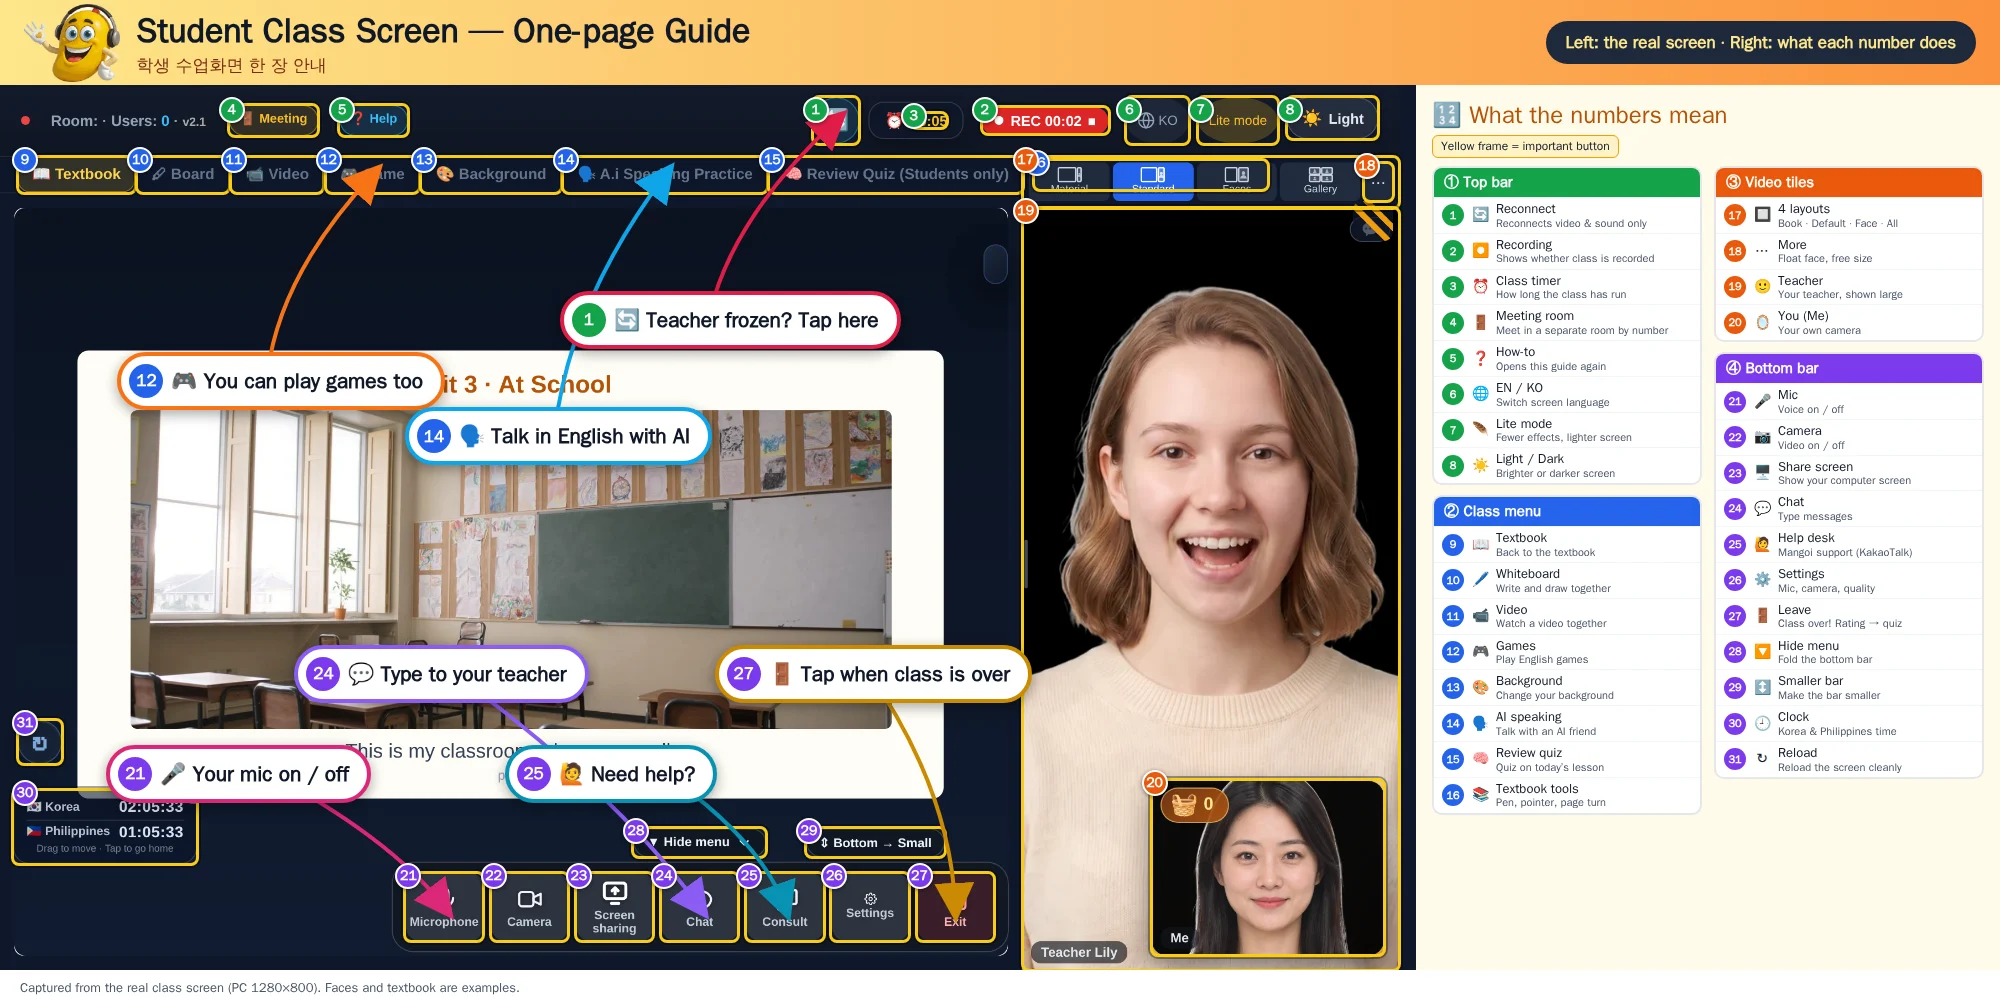
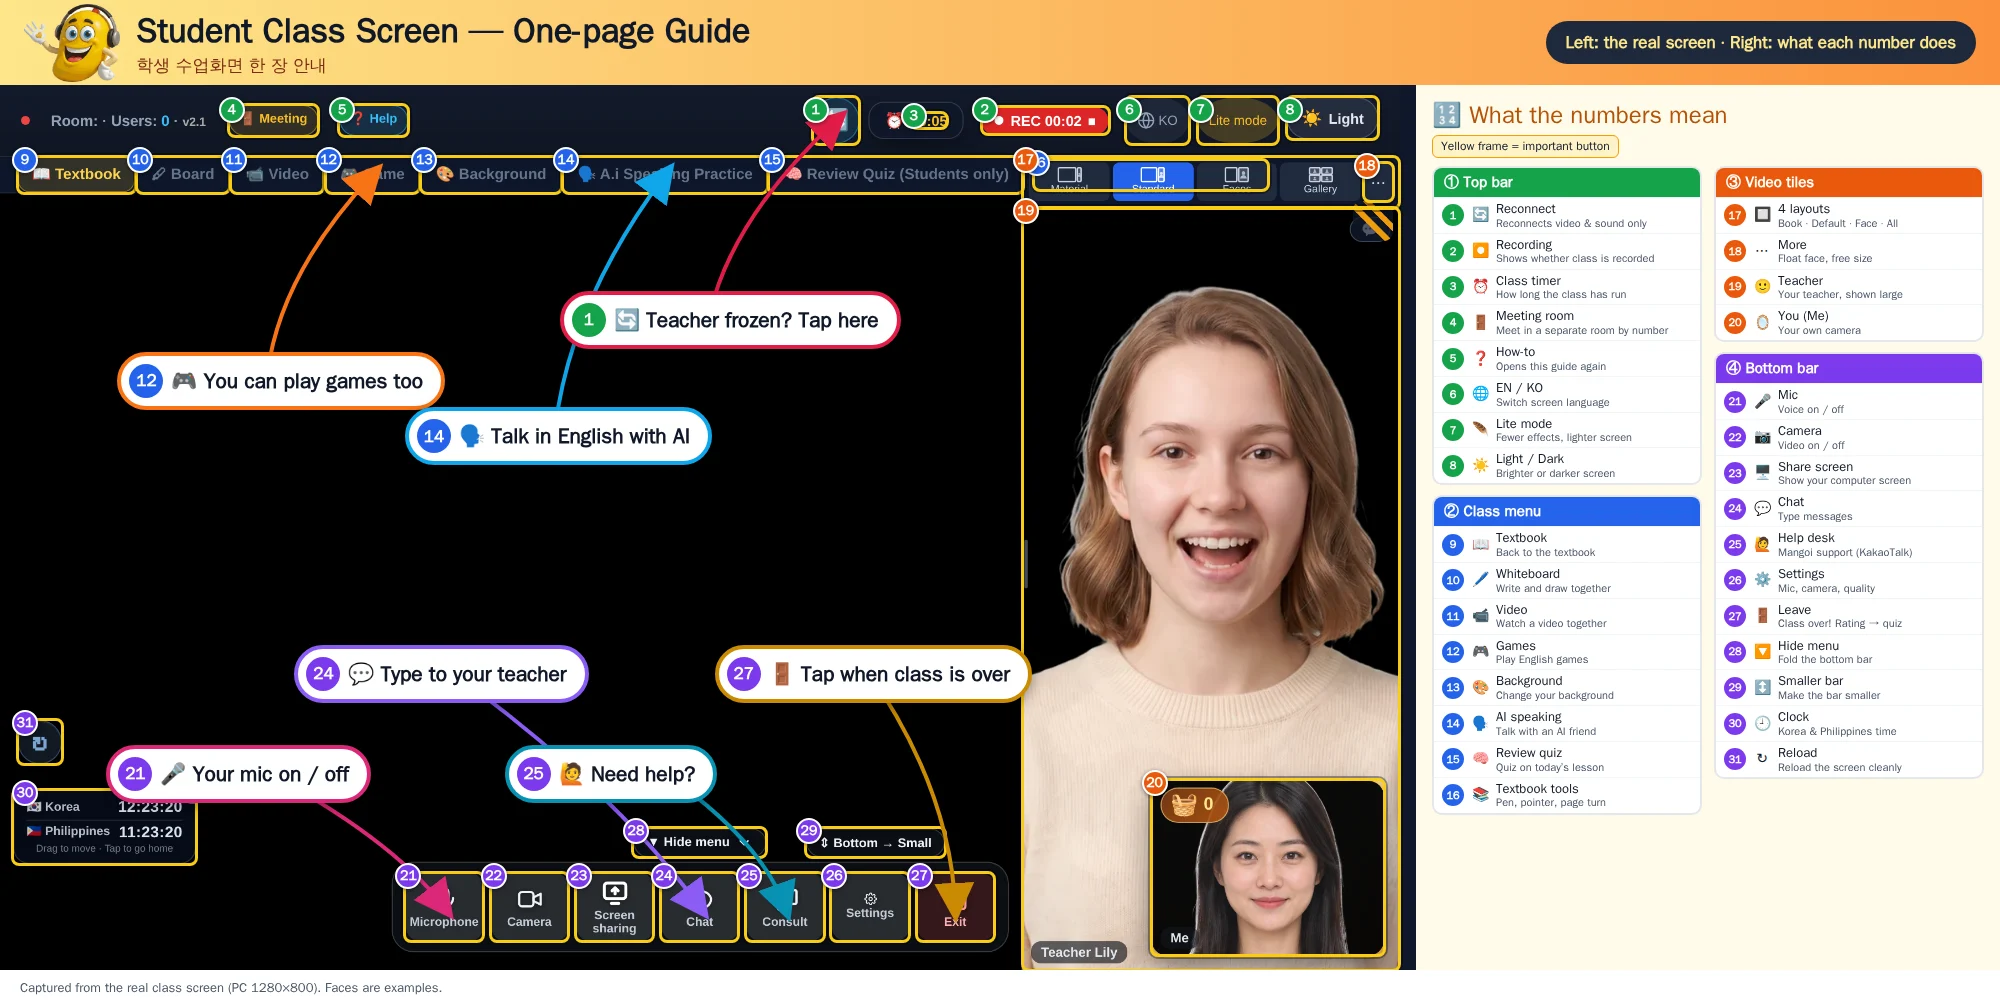
fix(수업화면 안내): 화면 전체로 키우고 교재 칸은 검정, 역할대로 교사=영어·학생=한국어
- 안내 창이 화면 전체를 덮고 그림은 비율 유지로 최대 크기
- 그림 속 예시 교재를 빼고 교재 칸을 검정으로 다시 생성(IMG_V=2)
- 관리자 세션으로 선생님용을 띄우던 판정 제거: 학생으로 입장하면 학생용 한국어
- 역할이 늦게 바로잡히면 사람이 탭을 누르기 전까지 따라감

Claude-Session: https://claude.ai/code/session_017WD4UPTtT4FoK1E77iva8j

Changed region(s): [[0.0, 0.1849, 0.527, 0.9861]]

diff --git a/cloudflare-deploy/public/js/idx-vc-guide.js b/cloudflare-deploy/public/js/idx-vc-guide.js
@@ -54,21 +54,20 @@
    * 만드는 곳: docs/수업화면_사용법그림_소스/build.mjs (화면이 바뀌면 그것을 다시 돌린다).
    * 기본 언어: 선생님 = 영어(필리핀·중국 선생님), 학생 = 한국어. 창 안에서 바꿀 수 있다.
    * ⛔ 그림 주소를 바꾸지 말 것 — 같은 이름으로 갈아끼우면 이 파일의 ?v= 와 IMG_V 를 함께 올린다. */
-  var IMG_V = '1';
+  var IMG_V = '2';
   function imgSrc(who, lang) { return '/img/vc-guide/' + who + '-' + lang + '.webp?v=' + IMG_V; }
   function defLang(who) { return who === 'teacher' ? 'en' : 'ko'; }
-  /* 선생님용을 띄울지 — 역할 정본(vcIsStaffNow) + 관리자 세션.
-   * 관리자 세션을 함께 보는 이유: 사장님 계정은 학생 세션으로 입장해 역할이 학생으로 잡히는 일이 있다.
+  /* 선생님용을 띄울지 — 역할 정본만 본다(vcIsStudentNow → vcIsStaffNow).
+   * ⛔ 관리자 세션(mangoi_admin_session)으로 «선생님용» 을 띄우지 말 것 — 2026-09-24 첫 판이 그렇게 했다가
+   *    사장님이 «학생으로» 입장했는데 선생님용이 떴다(사장님 제보). 학생으로 들어왔으면 학생용이 맞다.
    * ⚠ 이 판정은 «어느 그림을 먼저 보여 주나» 에만 쓴다. 권한 판정에 쓰지 말 것. */
   function wantsTeacher() {
-    if (isStaff()) return true;
+    try { if (typeof window.vcIsStudentNow === 'function' && window.vcIsStudentNow()) return false; } catch (e) {}
     var r = window.vcMyRole;
-    if (r === 'teacher' || r === 'admin') return true;
-    if (r === 'student' || r === 'observer') {
-      try { return !!localStorage.getItem('mangoi_admin_session'); } catch (e) { return false; }
-    }
-    return false;
+    if (r === 'student' || r === 'observer') return false;
+    return isStaff();
   }
+  function myWho() { return wantsTeacher() ? 'teacher' : 'student'; }
 
   var styled = false;
   function injectStyle() {
@@ -76,10 +75,10 @@
     var s = document.createElement('style');
     s.id = 'vc-guide-style';
     s.textContent = [
-      '#' + OV_ID + '{position:fixed;inset:0;z-index:2147483001;background:rgba(2,6,23,.72);display:flex;',
-      '  align-items:center;justify-content:center;padding:12px;box-sizing:border-box;}',
-      '#' + OV_ID + ' .vg-card{background:#ffffff;color:#101828;border-radius:16px;width:100%;max-width:1400px;',
-      '  max-height:calc(100svh - 24px);display:flex;flex-direction:column;box-shadow:0 20px 60px rgba(0,0,0,.45);',
+      /* 화면 전체를 덮는다(2026-09-25 사장님 «글자가 잘 안 보여 화면 전체 커버하게») */
+      '#' + OV_ID + '{position:fixed;inset:0;z-index:2147483001;background:#0f172a;display:flex;box-sizing:border-box;}',
+      '#' + OV_ID + ' .vg-card{background:#ffffff;color:#101828;width:100%;height:100%;height:100dvh;',
+      '  display:flex;flex-direction:column;',
       '  font-family:inherit;line-height:1.4;overflow:hidden;}',
       '#' + OV_ID + ' .vg-head{display:flex;align-items:center;gap:8px;padding:10px 12px;flex:0 0 auto;flex-wrap:wrap;',
       '  border-bottom:1px solid #eef2f6;}',
@@ -91,8 +90,8 @@
       '#' + OV_ID + ' .vg-x{border:0;background:#f1f5f9;color:#101828;width:34px;height:34px;border-radius:999px;',
       '  font-size:17px;cursor:pointer;flex:0 0 auto;}',
       '#' + OV_ID + ' .vg-body{overflow:auto;min-height:0;flex:1 1 auto;background:#0f172a;}',
-      '#' + OV_ID + ' .vg-img{display:block;width:100%;height:auto;cursor:zoom-in;}',
-      '#' + OV_ID + ' .vg-body.zoom .vg-img{width:2000px;max-width:none;cursor:zoom-out;}',
+      '#' + OV_ID + ' .vg-img{display:block;width:100%;height:100%;object-fit:contain;cursor:zoom-in;}',
+      '#' + OV_ID + ' .vg-body.zoom .vg-img{width:2000px;height:auto;max-width:none;cursor:zoom-out;}',
       '#' + OV_ID + ' .vg-foot{display:flex;align-items:center;gap:10px;padding:8px 12px 10px;border-top:1px solid #eef2f6;',
       '  flex:0 0 auto;flex-wrap:wrap;}',
       '#' + OV_ID + ' .vg-off{font-size:13px;color:#475467;display:flex;align-items:center;gap:6px;flex:1 1 auto;cursor:pointer;}',
@@ -175,6 +174,7 @@
       var tab = t.closest && t.closest('.vg-tab');
       if (!tab) return;
       var w = tab.getAttribute('data-who'), l = tab.getAttribute('data-lang');
+      ov.__touched = true;
       if (w) render(ov, w, ov.__lang);          // 역할을 바꿔도 지금 고른 언어는 그대로
       else if (l) render(ov, ov.__who, l);
     });
@@ -182,7 +182,7 @@
     document.body.appendChild(ov);
     render(ov, who, lang);
   }
-  function openForMe() { open(wantsTeacher() ? 'teacher' : 'student'); }
+  function openForMe() { open(myWho()); }
   window.mgOpenVcGuide = openForMe;
 
   function btnLabel(b, mobile) {
@@ -225,14 +225,18 @@
       n++;
       if (!inCall()) { if (n > 16) clearInterval(t); return; }
       mountButtons();
+      /* 자동으로 연 뒤 역할이 늦게 바로잡히면(학생 ↔ 선생님) 사람이 탭을 누르기 전까지 따라간다 */
+      var ov = document.getElementById(OV_ID);
+      if (ov && ov.__auto && !ov.__touched && ov.__who !== myWho()) { var w2 = myWho(); render(ov, w2, defLang(w2)); }
       if (shownThisEntry || isObserver() || autoOff()) {
-        if (document.getElementById(BTN_PC) && document.getElementById(BTN_M)) clearInterval(t);
+        if (document.getElementById(BTN_PC) && document.getElementById(BTN_M) && !(ov && ov.__auto && !ov.__touched)) clearInterval(t);
         if (n > 16) clearInterval(t);
         return;
       }
       if (roleKnown() || n >= 12) {           // 역할이 정해졌거나 약 6초가 지났으면
         shownThisEntry = true;
         openForMe();
+        var ov2 = document.getElementById(OV_ID); if (ov2) ov2.__auto = true;
       }
       if (n > 16) clearInterval(t);
     }, 500);

diff --git a/cloudflare-deploy/public/index.html b/cloudflare-deploy/public/index.html
@@ -16487,7 +16487,7 @@ console.log('[v28] 룸 ✕ → 홈 강제 이동 안전망 활성');
 <script defer src="/js/idx-vc-roomcode.js?v=4"></script>
 <!-- 🧭 (2026-08-20 사장님 지시) 세로 수업화면 맨 윗줄을 «한 줄» 로 합침 — 첫 페인트에 필요 없어 defer -->
 <script defer src="/js/idx-vc-toprow.js?v=1"></script>
-<script defer src="/js/idx-vc-guide.js?v=2"></script><!-- ❓ 수업 입장 시 사용법 안내(2026-09-24) -->
+<script defer src="/js/idx-vc-guide.js?v=3"></script><!-- ❓ 수업 입장 시 사용법 안내(2026-09-24) -->
 <script defer src="/js/idx-home-opening.js?v=9"></script><!-- 홈 오프닝 사운드(웹오디오 합성, 음원 파일 0바이트) / defer 필수 — blocking 이면 첫 화면 예산 FAIL -->
 <style id="vc-teacher-first">
 /* 🧑🏫 (2026-07-14 사장님 지시) 학생 입장 시 '교사 얼굴이 맨 위 + 크게'.
